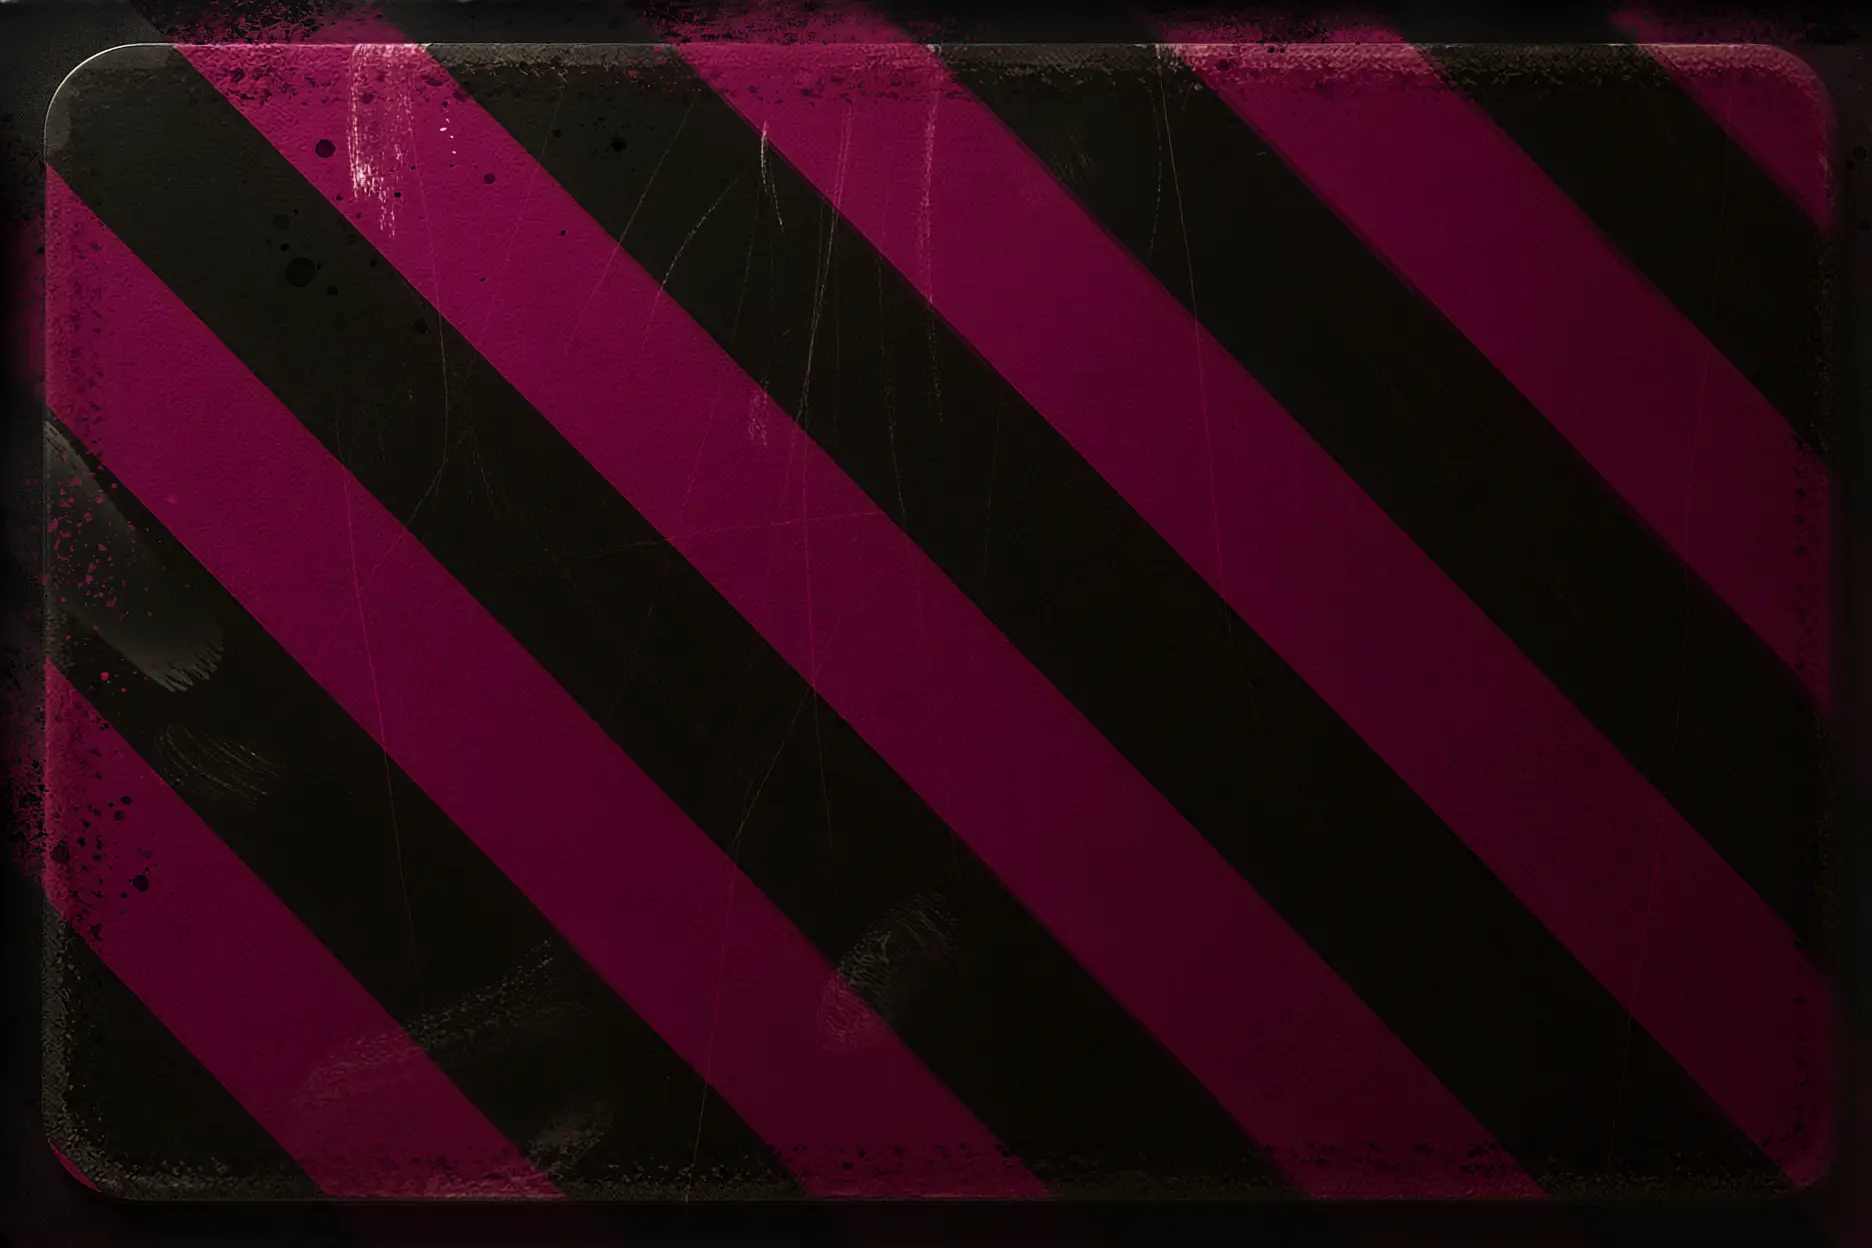
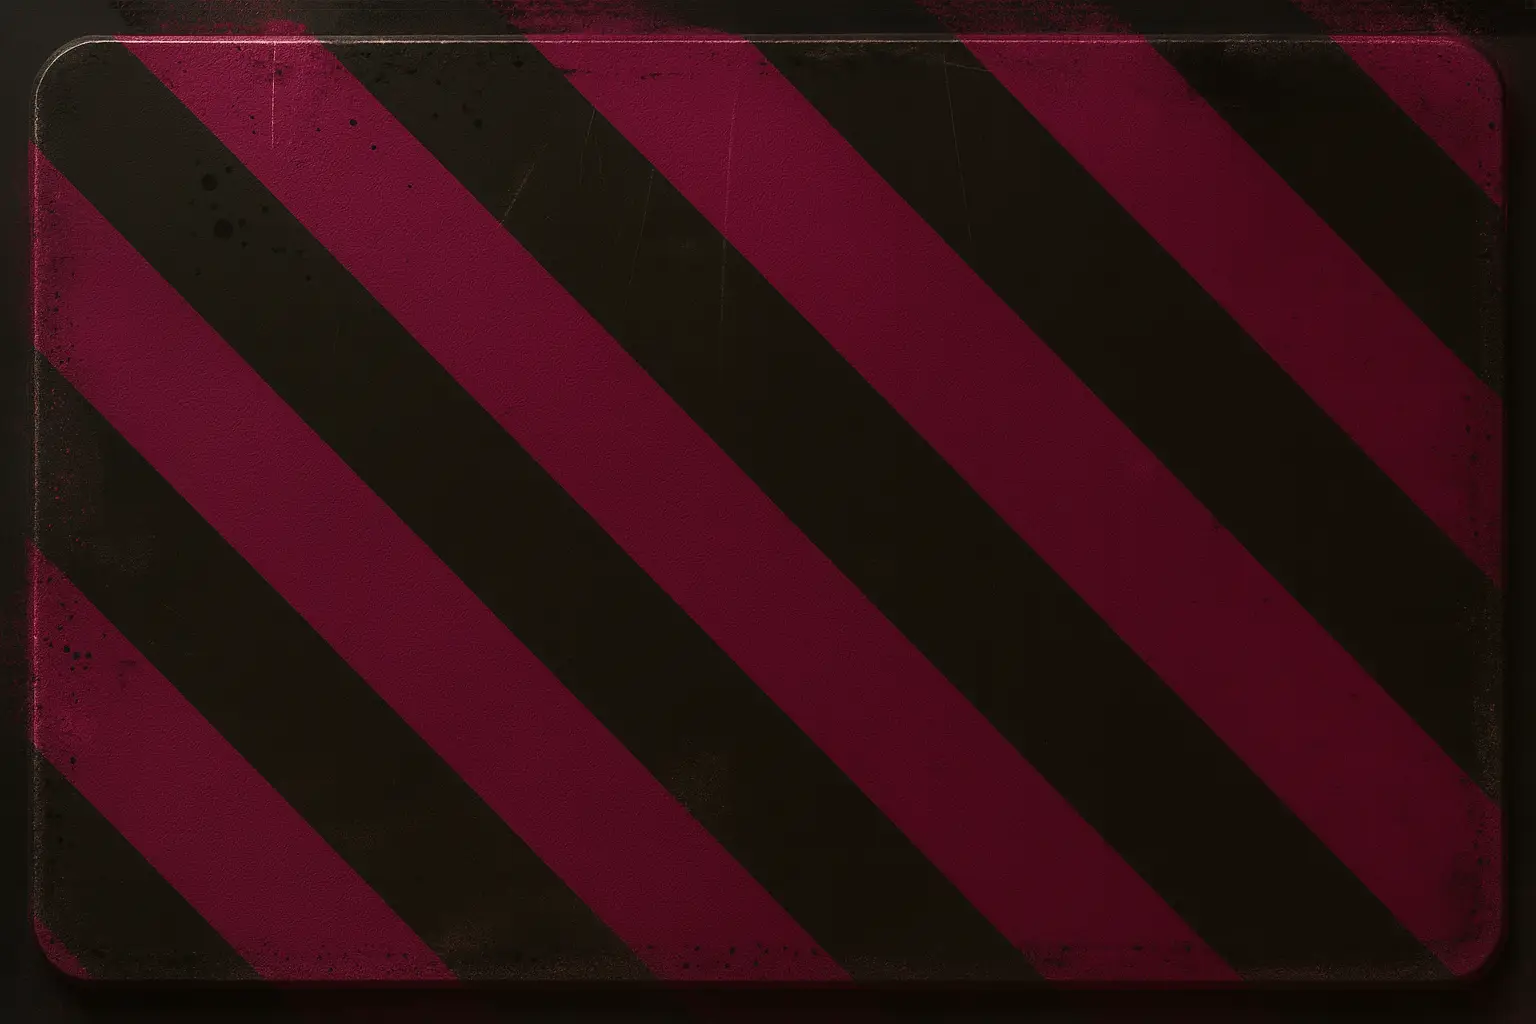
Added no-bezel!

diff --git a/frontend/src/app/responsive-lab/ResponsiveLab.module.scss b/frontend/src/app/responsive-lab/ResponsiveLab.module.scss
@@ -30,15 +30,15 @@
 
   background-size: cover;
 
-  &:nth-child(8n) {
+  &:nth-child(9n) {
     background-image: url("/images/projects-list-distressed/bezel.webp");
   }
 
-  &:nth-child(8n + 1) {
+  &:nth-child(9n + 1) {
     background-image: url("/images/projects-list-distressed/pink-stripes.webp");
   }
 
-  &:nth-child(8n + 2) {
+  &:nth-child(9n + 2) {
     // layered backgrounds: overlay + middle + base
     background-image:
       url("/images/projects-list-distressed/triangle.svg"),
@@ -59,7 +59,7 @@
     // }
   }
 
-  &:nth-child(8n + 3) {
+  &:nth-child(9n + 3) {
     background-image:
       url("/images/projects-list-distressed/arrow.webp"),
       url("/images/projects-list-distressed/orange.webp");
@@ -70,7 +70,7 @@
     background-size: 60%, contain;
   }
 
-  &:nth-child(8n + 4) {
+  &:nth-child(9n + 4) {
     background-image:
       url("/images/projects-list-distressed/asdf.webp"),
       url("/images/projects-list-distressed/slots.webp");
@@ -81,7 +81,7 @@
     background-size: 60%, contain;
   }
 
-  &:nth-child(8n + 5) {
+  &:nth-child(9n + 5) {
     background-image:
       url("/images/projects-list-distressed/asdf.webp"),
       url("/images/projects-list-distressed/holes.webp");
@@ -92,7 +92,7 @@
     background-size: 60%, contain;
   }
 
-  &:nth-child(8n + 6) {
+  &:nth-child(9n + 6) {
     background-image:
       url("/images/projects-list-distressed/asdf.webp"),
       url("/images/projects-list-distressed/no-holes.webp");
@@ -103,10 +103,21 @@
     background-size: 60%, contain;
   }
 
-  &:nth-child(8n + 7) {
+  &:nth-child(9n + 7) {
     background-image:
       url("/images/projects-list-distressed/asdf.webp"),
       url("/images/projects-list-distressed/screws.webp");
+    background-repeat: no-repeat, no-repeat;
+    background-position:
+      center 40%,
+      center;
+    background-size: 60%, contain;
+  }
+
+  &:nth-child(9n + 8) {
+    background-image:
+      url("/images/projects-list-distressed/asdf.webp"),
+      url("/images/projects-list-distressed/no-bezel.webp");
     background-repeat: no-repeat, no-repeat;
     background-position:
       center 40%,